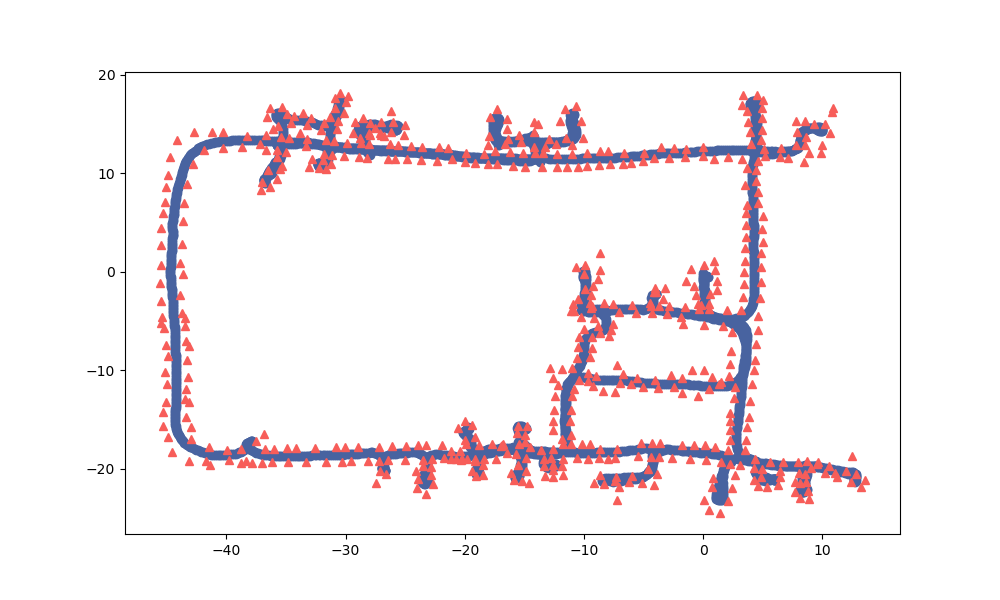
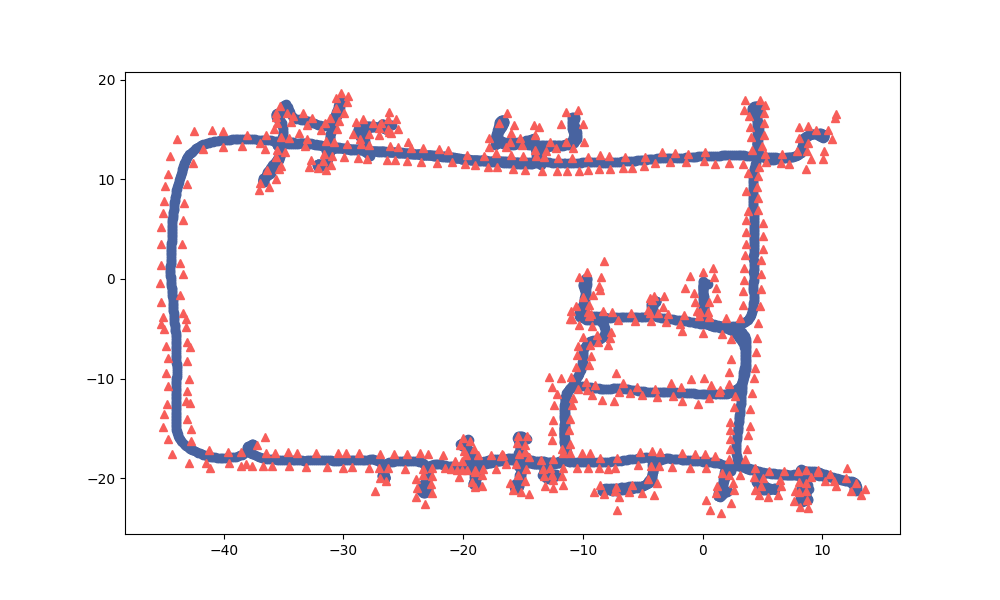
update pgo

diff --git a/pose_graph_optimization/utils/least_squares.py b/pose_graph_optimization/utils/least_squares.py
@@ -10,8 +10,8 @@ import numpy as np
 from scipy.sparse import csr_matrix
 from scipy.sparse.linalg import spsolve
 
-from utils.LieTheory import se2_hat, se2_Log, se2_Jacobian_right, se2_Jacobian_inversion
-### TODO: Jacobian by Lie theory
+from utils.LieTheory import se2_vec_to_mat, se2_Log, se2_Jacobian_right, se2_Jacobian_inversion
+### TODO Jacobian by Lie theory is not working
 
 def compute_Jacobian_and_residual(node1, node2, gtruth, edgeType, gradType):
     ''' [1] Grisetti, G., Kümmerle, R., Stachniss, C., & Burgard, W. (2010). 
@@ -24,31 +24,39 @@ def compute_Jacobian_and_residual(node1, node2, gtruth, edgeType, gradType):
 
         pose_i = node1
         pose_j = node2
-        # x,y
-        t_i = pose_i[:2].reshape(2, 1)
-        t_j = pose_j[:2].reshape(2, 1)
-        t_ij = gtruth[:2].reshape(2, 1)
-        # theta
-        theta_i = pose_i[2]
-        theta_j = pose_j[2]
-        theta_ij = gtruth[2]
 
-        rot_i = se2_hat(pose_i)[:2, :2]
-        rot_ij = se2_hat(gtruth)[:2, :2]
+        if gradType == "Euclidean":
+            # x,y
+            t_i = pose_i[:2]
+            t_j = pose_j[:2]
+            t_ij = gtruth[:2]
+            # theta
+            theta_i = pose_i[2]
+            theta_j = pose_j[2]
+            theta_ij = gtruth[2]
 
-        # derivative of rot_i with respect to theta_i
-        drot_i = np.array([[-np.sin(theta_i), -np.cos(theta_i)],
-                           [np.cos(theta_i), -np.sin(theta_i)]])
+            rot_i = se2_vec_to_mat(pose_i)[:2, :2]
+            rot_ij = se2_vec_to_mat(gtruth)[:2, :2]
 
-        # residual 
-        res = np.vstack((rot_ij.T@rot_i.T@(t_j - t_i) - rot_ij.T@t_ij, (theta_j - theta_i) - theta_ij))
-        # Jacobian of residual with respect to pose_i (Equation (32) of [1])
-        J_i = -np.eye(3)
-        J_i[:2, :2] = -rot_ij.T@rot_i.T
-        J_i[:2, 2] = rot_ij.T@drot_i.T@(t_j - t_i).ravel()
-        # Jacobian of residual with respect to pose_j (Equation (32) of [2])
-        J_j = np.eye(3)
-        J_j[:2, :2] = rot_ij.T@rot_i.T
+            # derivative of rot_i with respect to theta_i
+            drot_i = np.array([[-np.sin(theta_i), -np.cos(theta_i)],
+                            [np.cos(theta_i), -np.sin(theta_i)]])
+
+            # residual 
+            res = np.hstack((rot_ij.T@rot_i.T@(t_j - t_i) - rot_ij.T@t_ij, (theta_j - theta_i) - theta_ij))
+            # Jacobian of residual with respect to pose_i (Equation (32) of [1])
+            J_i = -np.eye(3)
+            J_i[:2, :2] = -rot_ij.T@rot_i.T
+            J_i[:2, 2] = rot_ij.T@drot_i.T@(t_j - t_i)
+            # Jacobian of residual with respect to pose_j (Equation (32) of [2])
+            J_j = np.eye(3)
+            J_j[:2, :2] = rot_ij.T@rot_i.T
+        
+        if gradType == "Lie":
+            ### TODO debug
+            res = se2_Log(np.linalg.inv(se2_vec_to_mat(gtruth))@np.linalg.inv(se2_vec_to_mat(pose_i))@se2_vec_to_mat(pose_j))
+            J_j = np.linalg.inv(se2_Jacobian_right(res))
+            J_i = J_j@se2_Jacobian_inversion(np.linalg.inv(se2_vec_to_mat(pose_i))@se2_vec_to_mat(pose_j))
 
         return J_i, J_j, res
 
@@ -57,25 +65,31 @@ def compute_Jacobian_and_residual(node1, node2, gtruth, edgeType, gradType):
         pose = node1
         landmark = node2
 
-        # x,y
-        t_i = pose[:2].reshape(2, 1)
-        t_j = landmark.reshape(2, 1)
-        z_ij = gtruth.reshape(2, 1)
-        # theta
-        theta_i = pose[2]
-        rot_i = se2_hat(pose)[:2, :2]
+        if gradType == "Euclidean":
+            # x,y
+            t_i = pose[:2]
+            t_j = landmark
+            z_ij = gtruth
+            # theta
+            theta_i = pose[2]
+            rot_i = se2_vec_to_mat(pose)[:2, :2]
 
-        # derivative of rot_i with respect to theta_i
-        drot_i = np.array([[-np.sin(theta_i), -np.cos(theta_i)],
-                           [np.cos(theta_i), -np.sin(theta_i)]])
-        # residual
-        res = rot_i.T@(t_j - t_i) - z_ij
-        # Jacobian of residual with respect to pose_i
-        J_i = np.zeros((2, 3))
-        J_i[:2, :2] = -rot_i.T
-        J_i[:2, 2] = drot_i.T@(t_j - t_i).ravel()
-        # Jacobian of residual with respect to landmark_j 
-        J_j = rot_i.T
+            # derivative of rot_i with respect to theta_i
+            drot_i = np.array([[-np.sin(theta_i), -np.cos(theta_i)],
+                            [np.cos(theta_i), -np.sin(theta_i)]])
+            # residual
+            res = rot_i.T@(t_j - t_i) - z_ij
+            # Jacobian of residual with respect to pose_i
+            J_i = np.zeros((2, 3))
+            J_i[:2, :2] = -rot_i.T
+            J_i[:2, 2] = drot_i.T@(t_j - t_i)
+            # Jacobian of residual with respect to landmark_j 
+            J_j = rot_i.T
+        
+        if gradType == "Lie":
+            ### TODO write pose & landmark constraint residual
+            ### TODO dirive Jacobians respectively
+            pass
         
         return J_i, J_j, res
 

diff --git a/pose_graph_optimization/utils/error.py b/pose_graph_optimization/utils/error.py
@@ -1,5 +1,5 @@
 import numpy as np
-from utils.LieTheory import se2_hat, se2_vee
+from utils.LieTheory import se2_vec_to_mat, se2_mat_to_vec
 
 def compute_error(graph):
 
@@ -10,15 +10,15 @@ def compute_error(graph):
         j = graph.lut[edge.toNode]
 
         if edge.Type == 'P': 
-            pose_i = se2_hat(graph.x[i:i+3]) # stored as (x, y, theta)
-            pose_j = se2_hat(graph.x[j:j+3]) # stored as (x, y, theta)
+            pose_i = se2_vec_to_mat(graph.x[i:i+3]) # stored as (x, y, theta)
+            pose_j = se2_vec_to_mat(graph.x[j:j+3]) # stored as (x, y, theta)
        
             relpose = np.linalg.inv(pose_i)@pose_j # relative pose 
-            gtruth = se2_hat(edge.measurement) # ground truth, stored as (x, y, theta)
-            err += np.linalg.norm(se2_vee(np.linalg.inv(gtruth)@relpose))
+            gtruth = se2_vec_to_mat(edge.measurement) # ground truth, stored as (x, y, theta)
+            err += np.linalg.norm(se2_mat_to_vec(np.linalg.inv(gtruth)@relpose))
 
         elif edge.Type == 'L': 
-            pose = se2_hat(graph.x[i:i+3]) # stored as (x, y, theta)
+            pose = se2_vec_to_mat(graph.x[i:i+3]) # stored as (x, y, theta)
             landmark = graph.x[j:j+2]
 
             relmeas = np.linalg.inv(pose)[:2, :2]@np.expand_dims(landmark, axis=1) # relative measurement

diff --git a/pose_graph_optimization/pgo.py b/pose_graph_optimization/pgo.py
@@ -6,13 +6,13 @@ from utils.error import compute_error
 from utils.least_squares import GaussNewton
 
 
-def pose_graph_optimization(graph, max_iteration=1000, tolerance=1e-4):
+def pose_graph_optimization(graph, max_iteration=1000, tolerance=1e-4, gradType="Euclidean"):
 
     norm_prev = 1e+10
     for i in range(max_iteration):
 
         # compute increment
-        dX = GaussNewton(graph)
+        dX = GaussNewton(graph, gradType=gradType)
         norm_dX = np.linalg.norm(dX)
         graph.x += dX
         err = compute_error(graph)

diff --git a/pose_graph_optimization/utils/LieTheory.py b/pose_graph_optimization/utils/LieTheory.py
@@ -4,7 +4,7 @@
 #     arXiv preprint arXiv:1812.01537.
 import numpy as np
 
-def se2_vee(mat):
+def se2_mat_to_vec(mat):
     ''' SE(2) to (x, y, theta) '''
     x = mat[0, 2]
     y = mat[1, 2]
@@ -12,7 +12,7 @@ def se2_vee(mat):
     vec = np.array([x, y, theta])
     return vec
 
-def se2_hat(vec):
+def se2_vec_to_mat(vec):
     ''' (x, y, theta) to SE(2) '''
     theta = vec[2]
     mat = np.array([[np.cos(theta), -np.sin(theta), vec[0]], [np.sin(theta), np.cos(theta), vec[1]], [0.0, 0.0, 1.0]])
